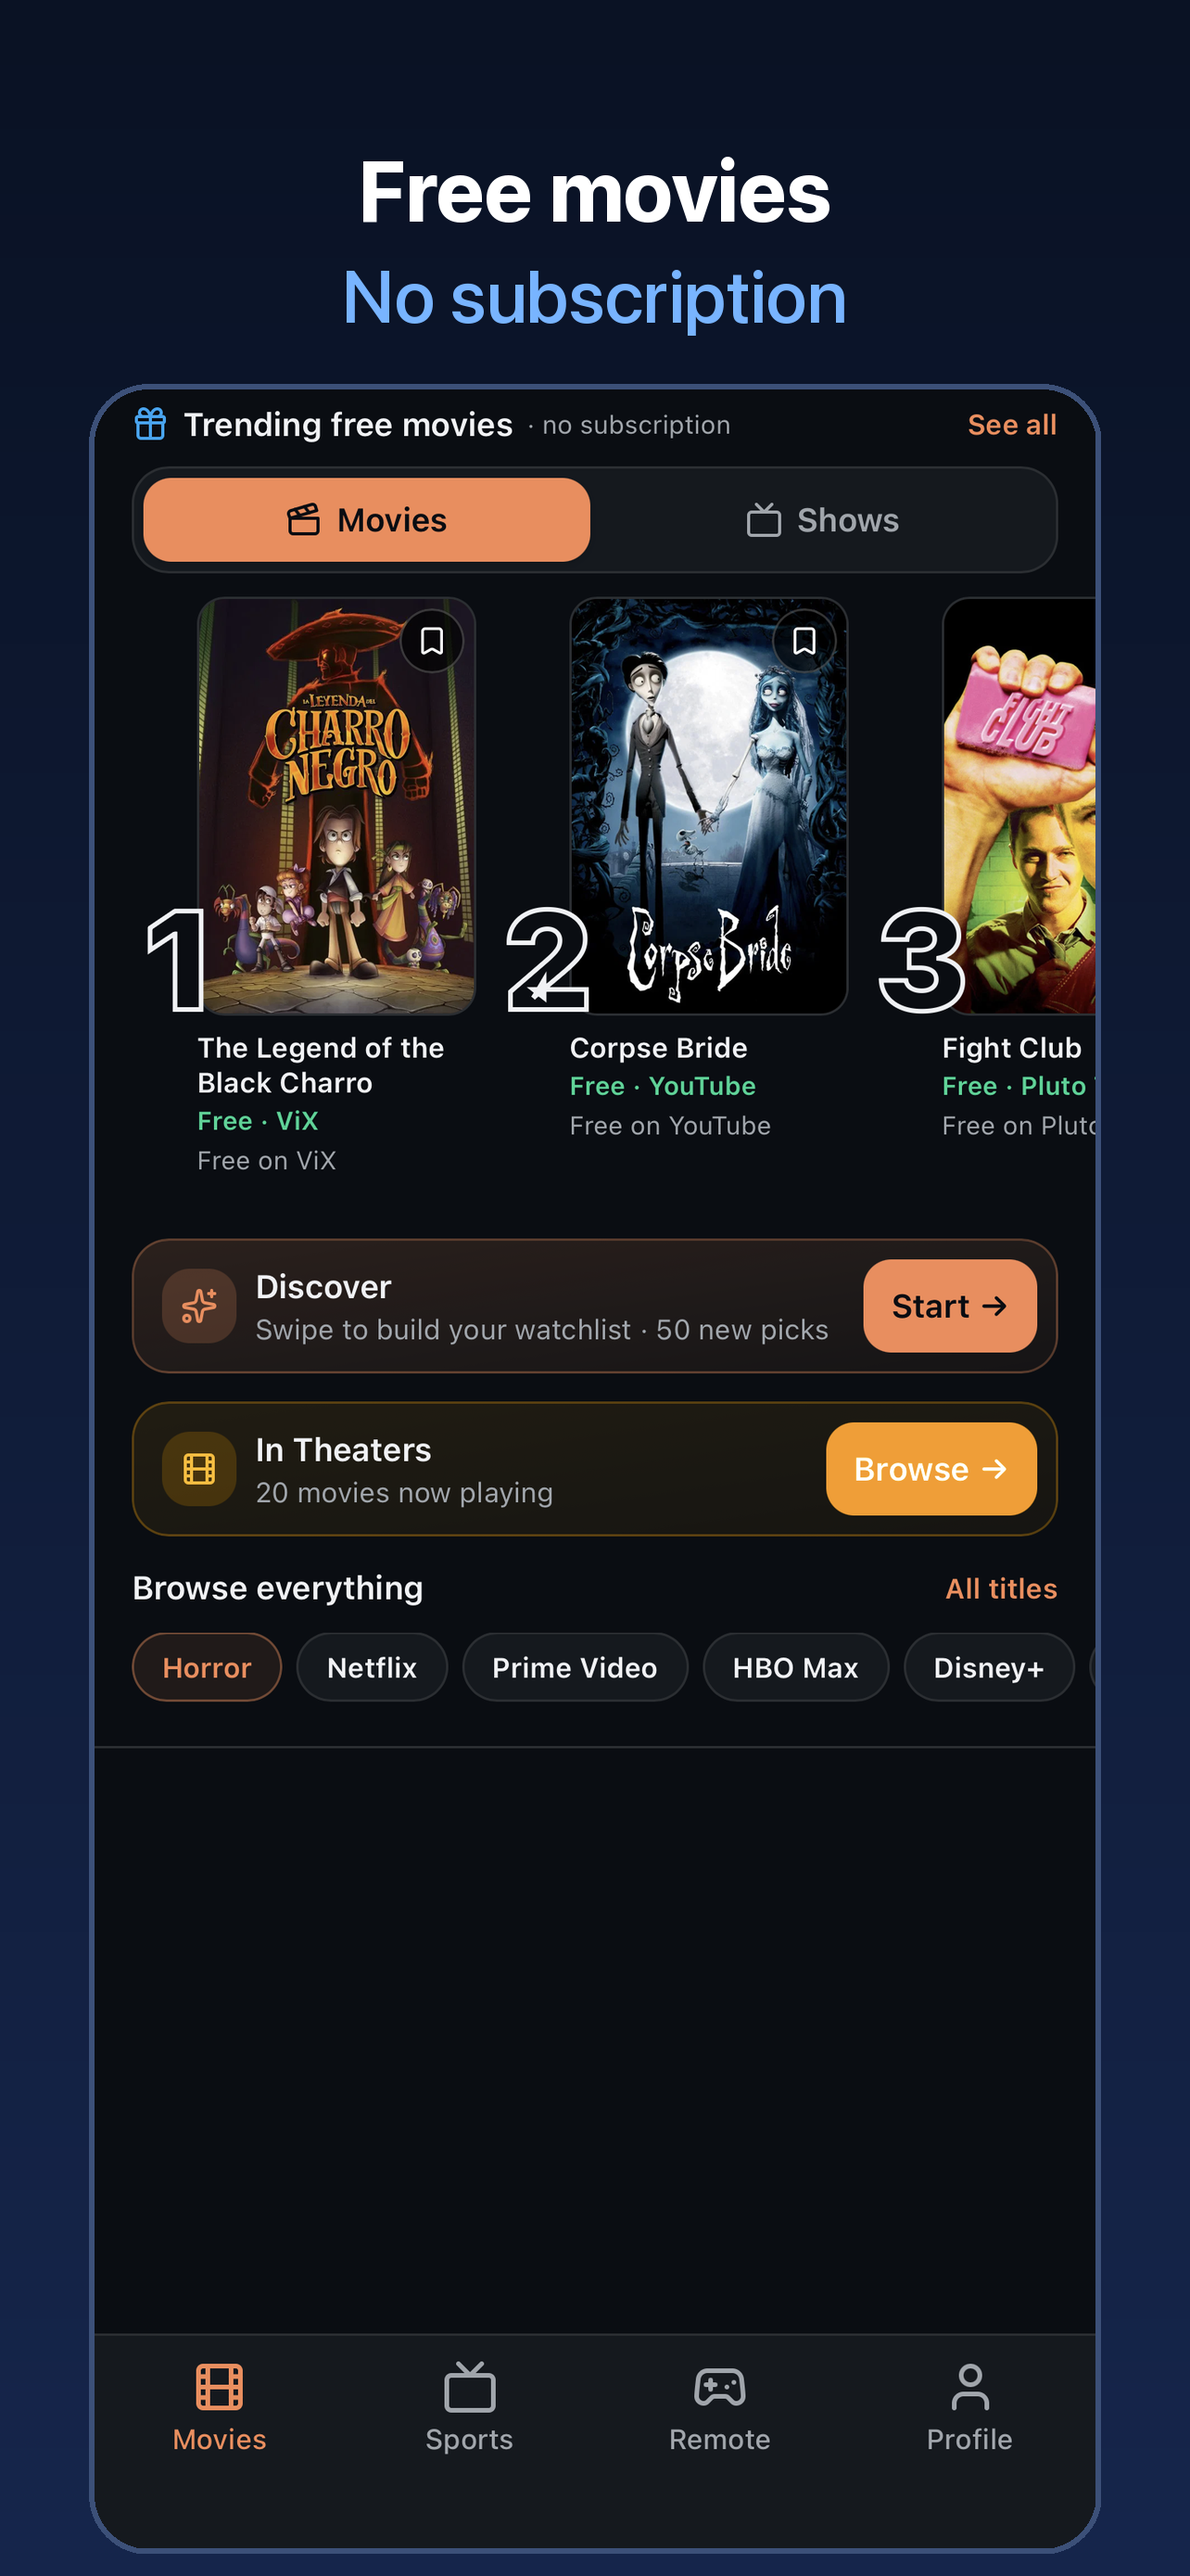
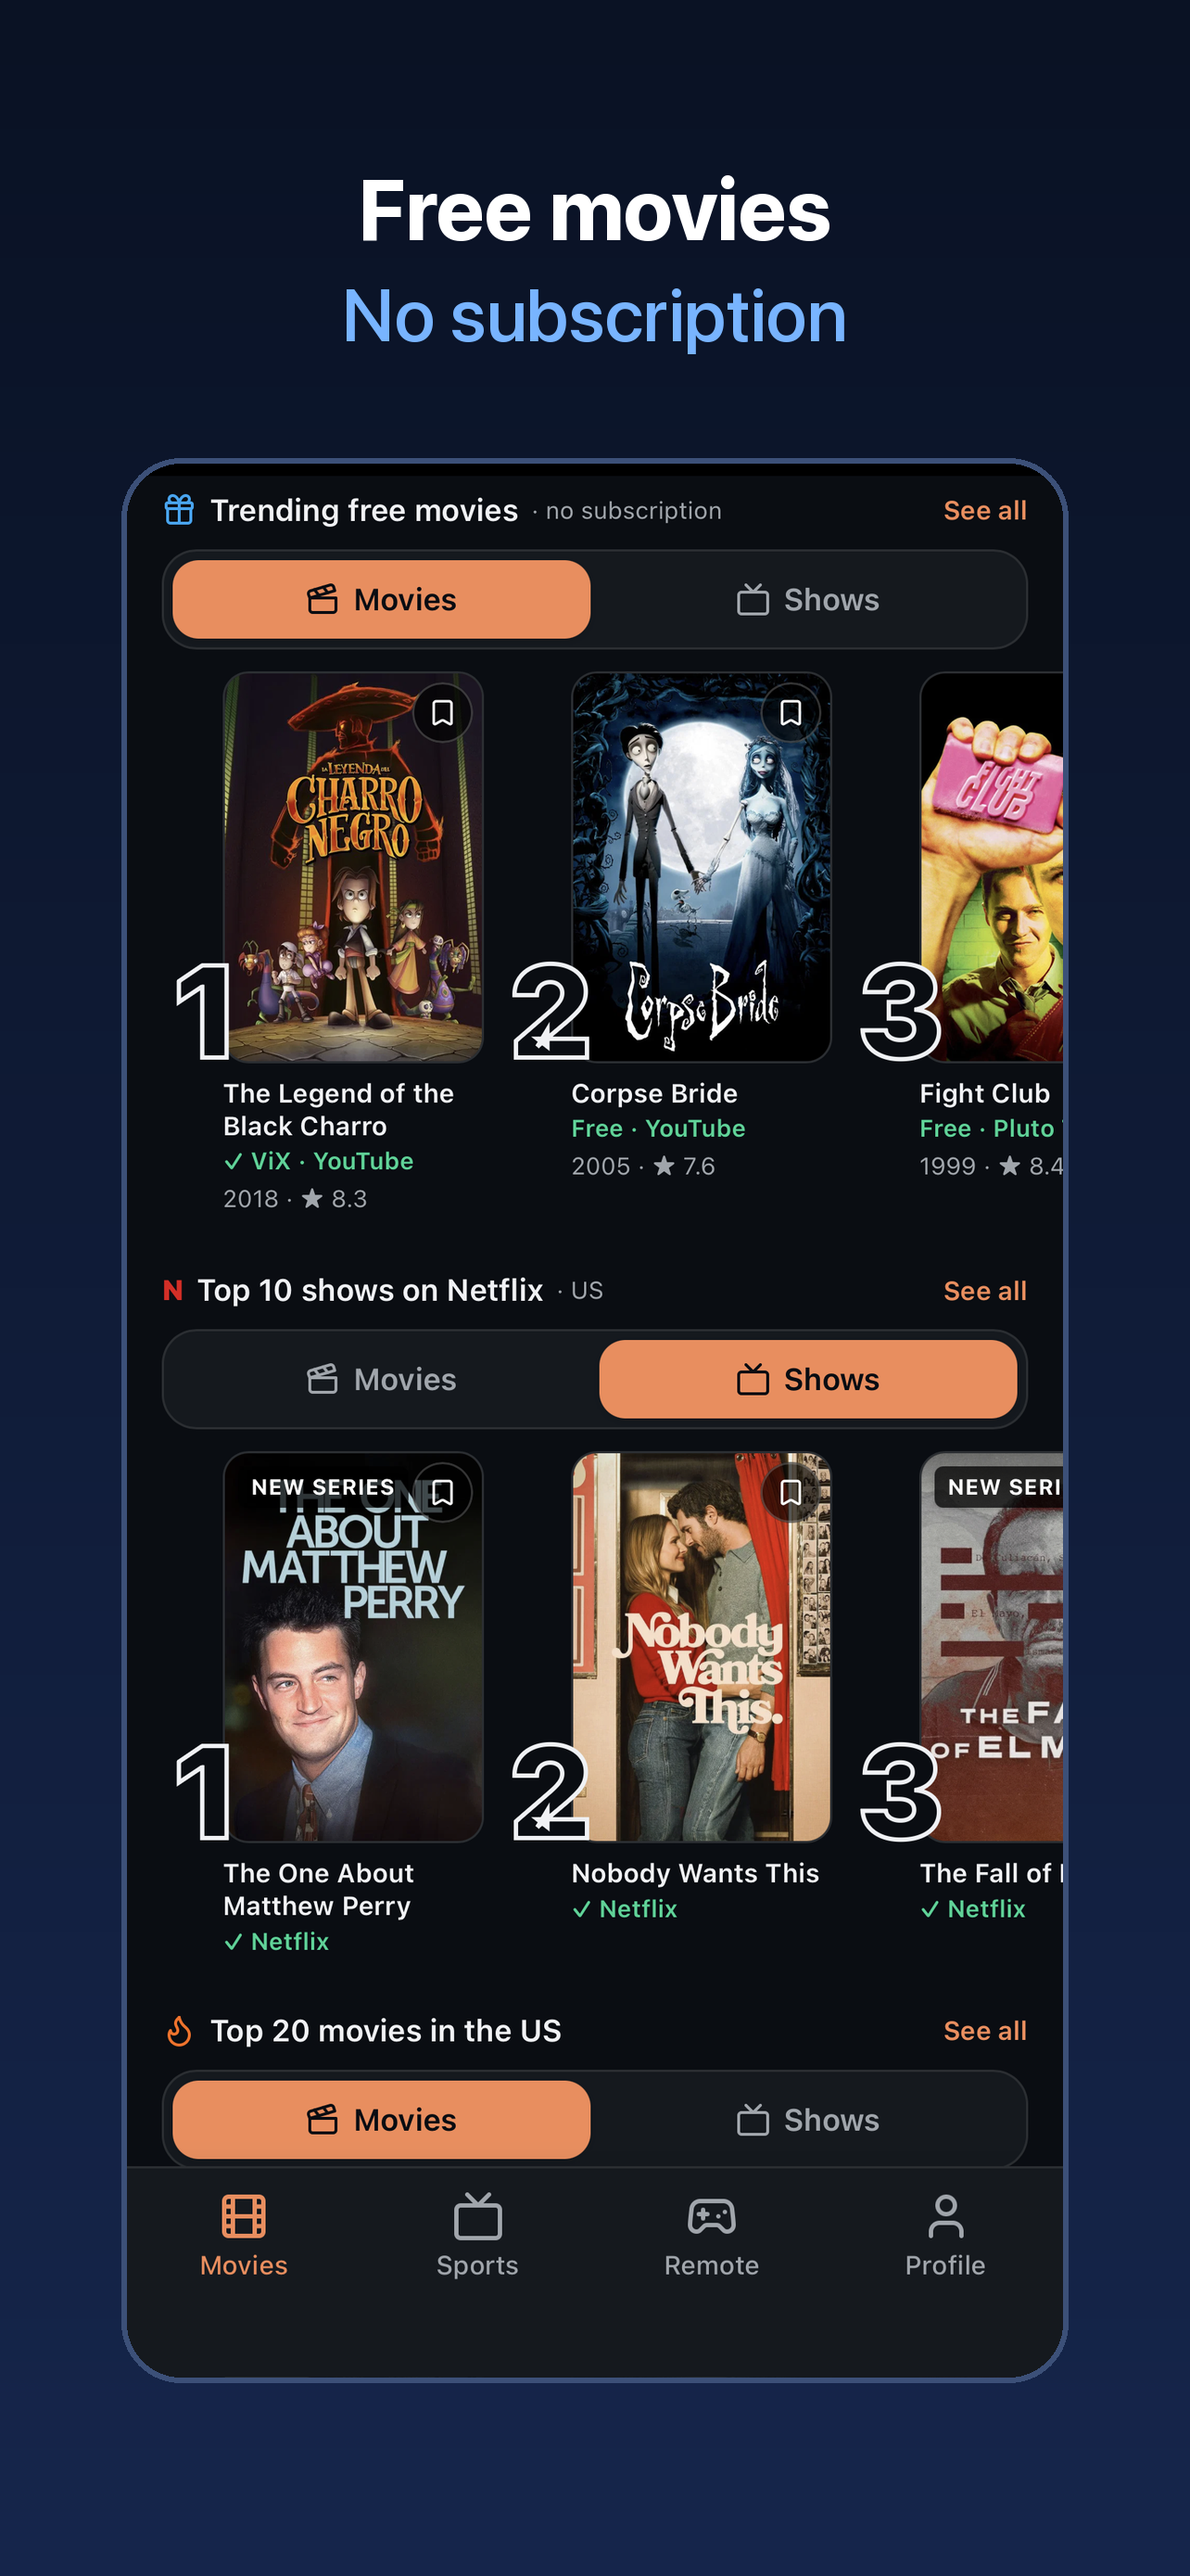
1.0.19 store: free movies shot retaken from the phone (free row near the top, clean service names)

diff --git a/docs/app-store-1.0.19.md b/docs/app-store-1.0.19.md
@@ -52,8 +52,8 @@ iPhone 6.5" (1284x2778), from the real phone 2026-11-06, status bar removed:
 `6-ontv` is Apocalypse Z from the phone 2026-11-06 9:32 PM (after f6180cd): one service, Play on
 Living Room TV, trailer on phone or TV. Replaces the Jaws 2 shot.
 
-Retake after the next publish: `8-free` (Discover and In Theaters moved to the top of Movies;
-this photo still shows them low).
+`8-free` is the phone 2026-11-06 10:15 PM (after 986f9a8): Trending free movies near the top of
+Movies, one name per app ("Free · YouTube"), Netflix Top 10 under it. Same frame as `6-ontv`.
 
 iPad 13" (2064x2752), the real iPad capture (the app runs as one centered column there):
 1. `ipad-13-1-sports.png` Tonight's game, your channel
